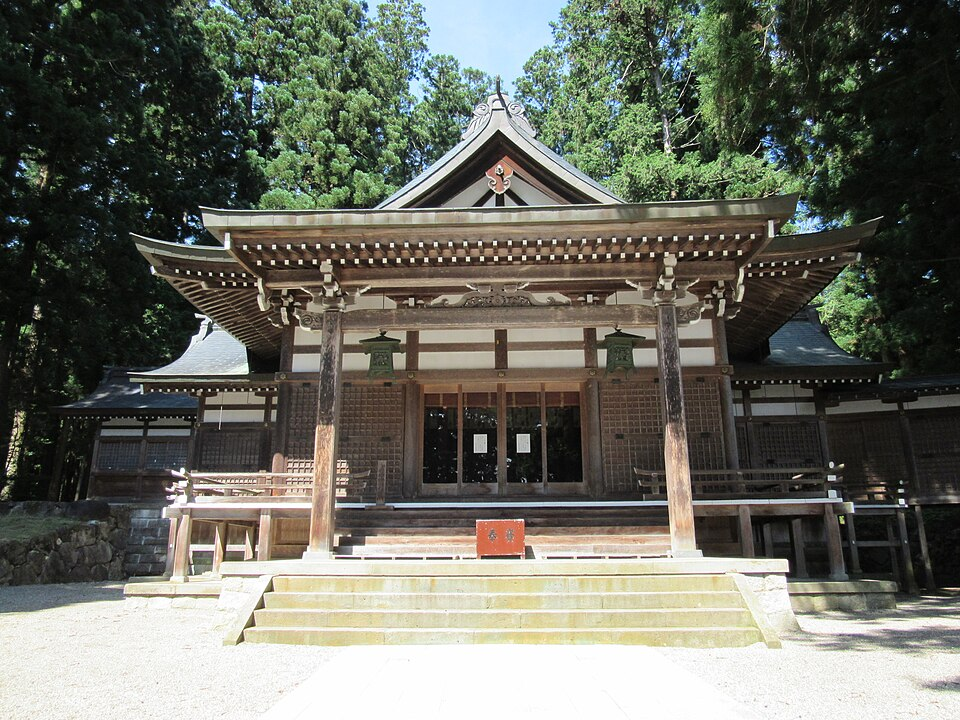
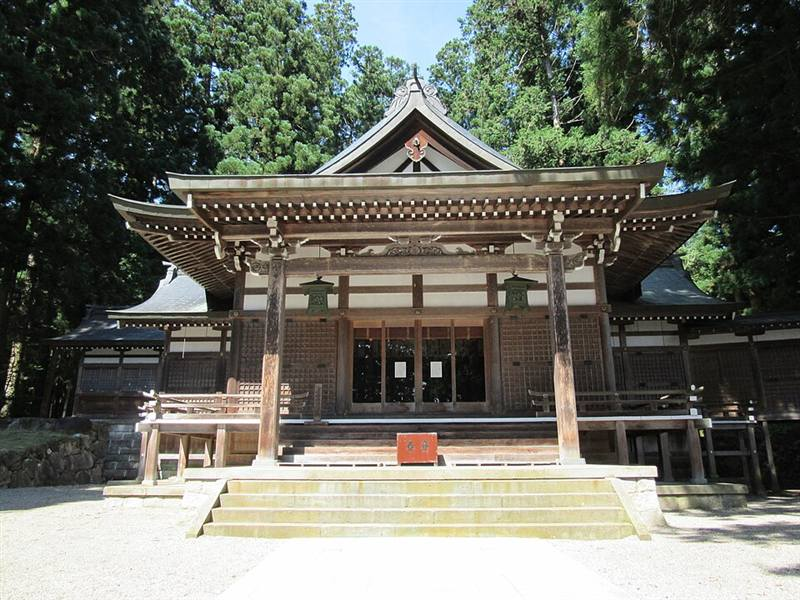
1127 지민: PR 전 코드 리뷰 반영 + 바닷가 소나무 인스턴싱
- 입장 뒤 설정창에서 캐릭터를 바꾸면 다시 잠겨서 출발점으로 돌아가고 창이 닫히던 문제 (한 번 입장하면 다시 잠그지 않음)
- 늦게 온 서버 캐릭터 값이 방금 고른 캐릭터를 덮던 문제, 서버 답이 없거나 모델을 못 받으면 "입장하는 중"에 갇히던 문제
- 서버 깨우기(/health)는 10분 뒤 멈춤
- 레일바이크: 속도 표시 0.25초마다, 다시 그려질 때 속도 0, 지붕 재질 정리
- 실제 성지가 없는 공간 종류엔 팻말 안 세움, 토토로 성지 이름 통일
- 성지 사진 5장 800px로 줄임 (1.43MB → 0.62MB), 출처에 라이선스 링크
- 소나무 20그루를 인스턴싱 메시 3개로 (그리기 호출 약 80 → 3)

diff --git a/frontend/src/game/Map/styles/jm_seaside.jsx b/frontend/src/game/Map/styles/jm_seaside.jsx
@@ -1,8 +1,9 @@
 // 애니 구역 서쪽 바닷가 산책로 소품 — 담당: 지민 (11/27)
 // 애니 ↔ K-pop 사이 빈 땅: 물가 나무 데크(terrain jm_sea_walk) 끝 바다 위 정자, 바닷가 소나무, 물가 바위
 // 다른 jm 스타일과 같은 약속: size [w, h, d] 안에 그림, 앞면 +z, 바닥 y = 0 (JSON elevation으로 띄움)
-import { useMemo } from 'react'
+import { useId, useLayoutEffect, useMemo, useRef, useSyncExternalStore } from 'react'
 import * as THREE from 'three'
+import { createPortal, useThree } from '@react-three/fiber'
 import { hipRoofGeometry } from './geometry.js'
 
 const DECK_WOOD = '#8a6a48' // 산책로 데크(jm_sea_walk color)와 같은 색
@@ -138,8 +139,39 @@ function JmSeaPavilion({ item }) {
 // size [w, h, d]. 잎 덩어리는 id마다 기울기·층이 조금씩 다름
 const PINE_BARK = '#5a4030'
 const PINE_GREENS = ['#2f5634', '#3a6640', '#284b2e']
+// (11/27 최적화) 소나무 20그루를 한 그루씩 그리면 그루마다 메시 약 4개 → 그리기 호출 약 80번이었음.
+//   이제 각 소나무는 자기 위치와 모양만 아래 목록(pineList)에 올리고, 목록의 첫 소나무 하나가
+//   줄기 아래·줄기 위·잎 덩어리를 모든 소나무 몫까지 인스턴싱 메시 3개로 한꺼번에 그림 → 그리기 호출 3번
+//   (jm_perf.jsx 합치기는 인스턴싱 메시를 건드리지 않음. 충돌은 원래대로 JSON collider가 맡음)
+const PINE_LOWER_GEO = new THREE.CylinderGeometry(0.16, 0.24, 1, 7)
+const PINE_UPPER_GEO = new THREE.CylinderGeometry(0.1, 0.16, 1, 6)
+const PINE_PAD_GEO = new THREE.IcosahedronGeometry(1, 1)
+const PINE_BARK_MAT = new THREE.MeshStandardMaterial({ color: PINE_BARK, roughness: 1, flatShading: true })
+const PINE_PAD_MAT = new THREE.MeshStandardMaterial({ color: '#ffffff', roughness: 1, flatShading: true }) // 색은 잎마다(instanceColor)
+const pineList = new Map() // 소나무 키 → { world: 월드 행렬, parts }
+let pineVersion = 0
+const pineListeners = new Set()
+const notifyPines = () => {
+  pineVersion++
+  pineListeners.forEach((f) => f())
+}
+const subscribePines = (f) => {
+  pineListeners.add(f)
+  return () => pineListeners.delete(f)
+}
+const firstPineKey = () => {
+  let first = null
+  for (const k of pineList.keys()) if (first === null || k < first) first = k
+  return first
+}
+const Y_UP = new THREE.Vector3(0, 1, 0)
+
 function JmPine({ item }) {
   const [w, h] = item.size
+  const autoKey = useId()
+  const key = item.id ?? autoKey
+  const anchor = useRef(null)
+  const scene = useThree((st) => st.scene)
   const shape = useMemo(() => {
     const rnd = seeded(item.id ?? 'pine')
     const lean = (rnd() - 0.5) * 0.5 // 줄기 기울기(라디안)
@@ -158,32 +190,80 @@ function JmPine({ item }) {
         c: PINE_GREENS[i % PINE_GREENS.length],
       })
     }
-    return { bend, lowH, pads }
+    // 부품별 이 소나무 안에서의 행렬 (원통은 높이 1짜리를 y로 늘림 — 예전 높이 len 원통과 같은 모양)
+    const upper = new THREE.Vector3(bend[0] * 0.6, h - lowH - 0.6, bend[1] * 0.6)
+    const lower = new THREE.Vector3(bend[0], lowH, bend[1])
+    const trunk = (center, v) =>
+      new THREE.Matrix4().compose(center, new THREE.Quaternion().setFromUnitVectors(Y_UP, v.clone().normalize()), new THREE.Vector3(1, v.length(), 1))
+    return {
+      lower: trunk(new THREE.Vector3(bend[0] / 2, lowH / 2, bend[1] / 2), lower),
+      upper: trunk(new THREE.Vector3(bend[0] + upper.x / 2, lowH + upper.y / 2, bend[1] + upper.z / 2), upper),
+      pads: pads.map((pad) => ({
+        m: new THREE.Matrix4().compose(new THREE.Vector3(...pad.p), new THREE.Quaternion(), new THREE.Vector3(...pad.s)),
+        c: new THREE.Color(pad.c),
+      })),
+    }
   }, [item.id, w, h])
-  const { bend, lowH, pads } = shape
-  const upper = new THREE.Vector3(bend[0] * 0.6, h - lowH - 0.6, bend[1] * 0.6)
-  const upperLen = upper.length()
-  const upperQuat = new THREE.Quaternion().setFromUnitVectors(new THREE.Vector3(0, 1, 0), upper.clone().normalize())
-  const lower = new THREE.Vector3(bend[0], lowH, bend[1])
-  const lowerQuat = new THREE.Quaternion().setFromUnitVectors(new THREE.Vector3(0, 1, 0), lower.clone().normalize())
+
+  useLayoutEffect(() => {
+    const g = anchor.current
+    g.updateWorldMatrix(true, false)
+    pineList.set(key, { world: g.matrixWorld.clone(), parts: shape })
+    notifyPines()
+    return () => {
+      pineList.delete(key)
+      notifyPines()
+    }
+  }, [key, shape])
+
+  const version = useSyncExternalStore(subscribePines, () => pineVersion)
+  const host = firstPineKey() === key
+  // 묶음은 장면 맨 위에 붙임 — 소품은 가까운 칸만 보이게 칸마다 숨기는데(MapLayout DetailCell), 첫 소나무 칸 밑에 두면
+  //   그 칸이 숨을 때 모든 소나무가 같이 사라짐. 3번 그리기라 멀리 있어도 늘 그림
+  return <group ref={anchor}>{host && createPortal(<PineGrove version={version} />, scene)}</group>
+}
+
+// 목록의 모든 소나무를 월드 좌표 그대로 인스턴싱 메시 3개에 담음
+function PineGrove({ version }) {
+  const sets = useMemo(() => {
+    const lower = []
+    const upper = []
+    const pads = []
+    const padColors = []
+    for (const { world, parts } of pineList.values()) {
+      const base = world
+      lower.push(base.clone().multiply(parts.lower))
+      upper.push(base.clone().multiply(parts.upper))
+      for (const pad of parts.pads) {
+        pads.push(base.clone().multiply(pad.m))
+        padColors.push(pad.c)
+      }
+    }
+    return { lower, upper, pads, padColors }
+    // eslint-disable-next-line react-hooks/exhaustive-deps
+  }, [version])
   return (
-    <group>
-      <mesh position={[bend[0] / 2, lowH / 2, bend[1] / 2]} quaternion={lowerQuat} castShadow>
-        <cylinderGeometry args={[0.16, 0.24, lower.length(), 7]} />
-        <meshStandardMaterial color={PINE_BARK} roughness={1} flatShading />
-      </mesh>
-      <mesh position={[bend[0] + upper.x / 2, lowH + upper.y / 2, bend[1] + upper.z / 2]} quaternion={upperQuat} castShadow>
-        <cylinderGeometry args={[0.1, 0.16, upperLen, 6]} />
-        <meshStandardMaterial color={PINE_BARK} roughness={1} flatShading />
-      </mesh>
-      {pads.map((pad, i) => (
-        <mesh key={i} position={pad.p} scale={pad.s} castShadow>
-          <icosahedronGeometry args={[1, 1]} />
-          <meshStandardMaterial color={pad.c} roughness={1} flatShading />
-        </mesh>
-      ))}
-    </group>
+    <>
+      <GroveMesh key={`l${sets.lower.length}`} geometry={PINE_LOWER_GEO} material={PINE_BARK_MAT} matrices={sets.lower} />
+      <GroveMesh key={`u${sets.upper.length}`} geometry={PINE_UPPER_GEO} material={PINE_BARK_MAT} matrices={sets.upper} />
+      <GroveMesh key={`p${sets.pads.length}`} geometry={PINE_PAD_GEO} material={PINE_PAD_MAT} matrices={sets.pads} colors={sets.padColors} />
+    </>
   )
+}
+
+function GroveMesh({ geometry, material, matrices, colors }) {
+  const ref = useRef(null)
+  useLayoutEffect(() => {
+    const mesh = ref.current
+    if (!mesh) return
+    matrices.forEach((m, i) => mesh.setMatrixAt(i, m))
+    colors?.forEach((c, i) => mesh.setColorAt(i, c))
+    mesh.instanceMatrix.needsUpdate = true
+    if (mesh.instanceColor) mesh.instanceColor.needsUpdate = true
+    mesh.computeBoundingSphere()
+  }, [matrices, colors])
+  if (matrices.length === 0) return null
+  return <instancedMesh ref={ref} args={[geometry, material, matrices.length]} castShadow receiveShadow />
 }
 
 // ── 물가 바위 무리 (참고: 데크 옆 갯바위) ─────────────────────

diff --git a/frontend/src/GameRoot.jsx b/frontend/src/GameRoot.jsx
@@ -1,4 +1,4 @@
-import { Suspense, useEffect, useState } from 'react'
+import { Component, Suspense, useEffect, useState } from 'react'
 import { useGLTF } from '@react-three/drei'
 import { USE_SERVER } from './api/session.js'
 import { cachedCharacterIds, getPlayerCharacter } from './api/serverApi.js'
@@ -29,8 +29,11 @@ export default function GameRoot({ locked = false }) {
   const { ready, warm } = useCharacterReady(!locked)
   // 로그인 직후 "입장하는 중…" 카드가 먼저 그려진 다음에 캐릭터를 세움 (같이 하면 무거운 작업에 묶여 카드가 늦게 보임)
   const painted = useAfterTwoFrames(!locked)
-  const hold = locked || !ready || !painted
-  const entered = useEntered(locked, hold)
+  const waiting = locked || !ready || !painted
+  const entered = useEntered(locked, waiting)
+  // 한 번 들어온 뒤에는 다시 잠그지 않음 — 설정창에서 캐릭터를 바꿔도 그 자리에서 모델만 바뀜
+  //   (잠그면 캐릭터가 출발점으로 돌아가고 열린 창이 닫히고 멀티 접속이 끊겼다 다시 붙었음 — 11/27 리뷰)
+  const hold = locked || (!entered && waiting)
   return (
     <div style={{ position: 'relative', width: '100%', height: '100%' }}>
       {warm}
@@ -74,21 +77,28 @@ function useEntered(locked, hold) {
   return entered
 }
 
+const GIVE_UP_MS = 12_000
+
 /** 로그인한 계정의 캐릭터 정보 + 모델(GLB)이 준비됐는지 { ready, warm(모델 미리 받기 — 화면에 붙일 것) }. active가 false면(로그인 전) 기다리지 않음 */
 function useCharacterReady(active) {
   const userId = useUiStore((s) => s.userId)
   const known = useCharacterStore((s) => Boolean(s.byUser[userId] || s.errors[userId]))
   const model = useCharacterStore((s) => (s.byUser[userId] ?? characters[0]).model)
   const [loadedModel, setLoadedModel] = useState(null)
+  const [gaveUp, setGaveUp] = useState(false)
 
   useEffect(() => {
-    if (!active || !userId) return
-    if (USE_SERVER && applyCachedCharacter(userId)) return
+    if (!active || !userId) return undefined
+    if (USE_SERVER && applyCachedCharacter(userId)) return undefined
     useCharacterStore.getState().load(userId)
+    // 서버 답이 끝내 안 오면 "입장하는 중…"에 갇히지 않게: 기다리다 기본 캐릭터로 입장 (답이 늦게 오면 그때 바뀜)
+    setGaveUp(false)
+    const id = setTimeout(() => setGaveUp(true), GIVE_UP_MS)
+    return () => clearTimeout(id)
   }, [active, userId])
 
   if (!active) return { ready: true, warm: null }
-  if (!known) return { ready: false, warm: null }
+  if (!known && !gaveUp) return { ready: false, warm: null }
   if (loadedModel === model) return { ready: true, warm: null }
   return { ready: false, warm: <ModelWarm key={model} model={model} onReady={setLoadedModel} /> }
 }
@@ -104,7 +114,8 @@ function applyCachedCharacter(userId) {
   put(cached)
   getPlayerCharacter({ userId })
     .then(({ character }) => {
-      if (character && store.getState().byUser[userId]?.id !== character.id) put(character)
+      // 그사이 설정창에서 새로 골랐으면(byUser가 바뀜) 늦게 온 서버 값으로 덮지 않음
+      if (character && store.getState().byUser[userId] === cached && cached.id !== character.id) put(character)
     })
     .catch(() => {}) // 확인 실패 → 저장된 값 그대로
   return true
@@ -129,10 +140,27 @@ function ModelWarm({ model, onReady }) {
   }, [model])
   if (!started) return null
   return (
-    <Suspense fallback={null}>
-      <Warmed model={model} onReady={onReady} />
-    </Suspense>
+    <WarmErrorBoundary onError={() => onReady(model)}>
+      <Suspense fallback={null}>
+        <Warmed model={model} onReady={onReady} />
+      </Suspense>
+    </WarmErrorBoundary>
   )
+}
+// 모델 파일을 못 받아도(404·네트워크) 게임 전체가 하얗게 꺼지지 않게: 미리 받기만 포기하고 입장
+//   (실제 캐릭터는 CharacterModel.jsx의 자체 오류 처리로 대체 모양이 나옴)
+class WarmErrorBoundary extends Component {
+  state = { failed: false }
+  static getDerivedStateFromError() {
+    return { failed: true }
+  }
+  componentDidCatch(error) {
+    console.error('[GameRoot] 캐릭터 모델 미리 받기 실패', error)
+    this.props.onError()
+  }
+  render() {
+    return this.state.failed ? null : this.props.children
+  }
 }
 function Warmed({ model, onReady }) {
   useGLTF(import.meta.env.BASE_URL + model)

diff --git a/frontend/src/game/Map/styles/jm_railbike.jsx b/frontend/src/game/Map/styles/jm_railbike.jsx
@@ -157,6 +157,7 @@ function BikeMesh({ variant = 0, number = 7, wheelRef }) {
   const roof = ROOF_COLORS[variant % ROOF_COLORS.length]
   const body = BODY_COLORS[variant % BODY_COLORS.length]
   const roofMat = useMemo(() => new THREE.MeshStandardMaterial({ color: roof, transparent: true, opacity: 0.82, roughness: 0.4, side: THREE.DoubleSide }), [roof])
+  useEffect(() => () => roofMat.dispose(), [roofMat]) // 다른 사람 바이크가 나타났다 사라질 때마다 재질이 남지 않게
   return (
     <group>
       <Box p={[0, 0.36, 0]} s={[1.5, 0.1, 2.2]} m={BIKE_FRAME} />
@@ -376,6 +377,7 @@ function JmRailBike({ item }) {
   useEffect(
     () => () => {
       restoreModel()
+      state.v = 0 // 자리는 기억하되 속도는 0 (안 그러면 다시 그려질 때 바퀴가 계속 돎)
       const rail = useJmActivity.getState().rail
       if (rail.active === item.id) {
         useJmActivity.getState().setRail({ active: null, near: null })
@@ -432,7 +434,12 @@ function JmRailBike({ item }) {
         state.lapAt = time
       }
       if (rail.lap && time - state.lapAt > 4) store.setRail({ lap: false })
-      if (Math.abs(rail.speed - state.v) > 0.25) store.setRail({ speed: state.v })
+      // 속도 표시는 0.25초에 한 번만 (가속 중 매번 바꾸면 초당 12번 화면 UI를 다시 그렸음 — 11/27 리뷰). 멈추면 바로 0
+      const stopped = state.v === 0 && rail.speed !== 0
+      if (stopped || (Math.abs(rail.speed - state.v) > 0.25 && time - (state.hudAt ?? 0) > 0.25)) {
+        state.hudAt = time
+        store.setRail({ speed: state.v })
+      }
     }
     place()
     // 바퀴 굴리기 (그림만)

diff --git a/frontend/src/game/Map/styles/jm_portal.jsx b/frontend/src/game/Map/styles/jm_portal.jsx
@@ -261,9 +261,12 @@ export function JmSceneRoom({ item }) {
       {room.kind === 'crossing' && <SakuraCrossing w={w} d={d} />}
       {room.kind === 'onsen' && <OnsenMotif w={w} d={d} bridge={room.bridge} />}
       {/* 입구 쪽 장면 안내판 — (11/27) 누르면(또는 가까이서 버튼·E) 실제 성지 정보 창 (jm_realSpots.jsx) */}
-      <group position={[-3.2, 0, d / 2 - (room.kind === 'totoro' ? 7 : 4.5)]} rotation={[0, 0.35, 0]}>
-        <RealSpotSign signId={item.id} spot={SPOT_OF_ROOM[room.kind]} title={room.title} sub={room.sub} />
-      </group>
+      {/*   실제 성지가 연결 안 된 공간 종류(stairs·rock·crossing)는 팻말을 안 세움 — 눌러도 창이 열렸다 바로 닫혔음 (11/27 리뷰) */}
+      {SPOT_OF_ROOM[room.kind] && (
+        <group position={[-3.2, 0, d / 2 - (room.kind === 'totoro' ? 7 : 4.5)]} rotation={[0, 0.35, 0]}>
+          <RealSpotSign signId={item.id} spot={SPOT_OF_ROOM[room.kind]} title={room.title} sub={room.sub} />
+        </group>
+      )}
     </group>
   )
 }

diff --git a/frontend/src/game/Map/styles/jm_zoneMap.jsx b/frontend/src/game/Map/styles/jm_zoneMap.jsx
@@ -36,7 +36,7 @@ const w2 = ([x, z]) => [x, z + ORIGIN_Z]
 // ⚠ 작품 공식 콜라보 가게는 하나도 없음 (팬·관광 매체가 꼽는 모델지 기준). 기간 한정 팝업은 넣지 않음
 export const JM_REAL_PLACES = {
   // 명장면
-  spot_jm_crossing: { kind: 'spot', name: '가미야스마쓰 지조손 (사이타마 도코로자와)', query: '上安松地蔵尊' },
+  spot_jm_crossing: { kind: 'spot', name: '토토로의 숲 1호지 (사이타마 도코로자와)', query: 'トトロの森1号地' }, // jm_realSpotData.js crossing과 같게 (11/27 리뷰)
   spot_jm_stairs: { kind: 'spot', name: '케타와카미야 신사 (기후 히다후루카와)', query: '気多若宮神社' },
   spot_jm_shrine: { kind: 'spot', name: '호만구 가마도 신사 (후쿠오카 다자이후)', query: '宝満宮竈門神社' },
   spot_jm_sakura_river: { kind: 'spot', name: '시라타니운스이쿄 이끼 숲 (가고시마 야쿠시마)', query: '白谷雲水峡 苔むす森' },

diff --git a/frontend/src/components/auth/jm_preload.js b/frontend/src/components/auth/jm_preload.js
@@ -12,6 +12,7 @@ export const loadGame = () => import('../../GameRoot.jsx')
 
 const HEALTH_TIMEOUT_MS = 70_000
 const SLOW_AFTER_MS = 90_000 // 이만큼 지나도 안 깨어나면 "늦어요" 안내 (계속 시도는 함)
+const GIVE_UP_MS = 10 * 60_000
 
 /**
  * server: 'waking'(깨우는 중) | 'ready'(준비됨) | 'slow'(오래 걸림 — 계속 시도 중) | 'off'(mock 모드)
@@ -39,6 +40,8 @@ async function wakeUntilReady() {
       // 잠에서 깨는 중(연결 끊김·시간 초과) → 잠깐 쉬고 다시
     }
     if (Date.now() - begin > SLOW_AFTER_MS) usePreload.setState({ server: 'slow' })
+    // 10분이 지나도 안 깨어나면(서버 장애) 그만 — 탭을 열어 둔 채 계속 두드리지 않게. 로그인 버튼은 그대로 쓸 수 있음
+    if (Date.now() - begin > GIVE_UP_MS) return
     await new Promise((r) => setTimeout(r, 3000))
   }
 }

diff --git a/frontend/public/jm-real/CREDITS.md b/frontend/public/jm-real/CREDITS.md
@@ -1,11 +1,11 @@
-# 애니 구역 실제 성지 사진 출처 (위키미디어 공용, 960px 축소본 그대로 — 고치지 않음)
+# 애니 구역 실제 성지 사진 출처 (위키미디어 공용 원본을 가로 800px·JPEG 품질 72로 줄임 — 크기만 바꾸고 내용은 고치지 않음, 11/27)
 
 화면(jm_realSpots.jsx)의 사진 아래에 작가·라이선스·원본 링크를 함께 표시해요. 사진을 바꾸면 여기와 jm_realSpotData.js를 같이 고치기.
 
 | 파일 | 원본 | 작가 | 라이선스 |
 |---|---|---|---|
-| totoro-forest.jpg | https://commons.wikimedia.org/wiki/File:Totoro_Forest_1st_area_(2)_2026-05-05.jpg | Asanagi | CC0 |
-| keta-wakamiya.jpg | https://commons.wikimedia.org/wiki/File:Keta_wakamiya.jpg | Opqr | CC BY-SA 4.0 |
-| kamado-shrine.jpg | https://commons.wikimedia.org/wiki/File:Haiden_of_Kamado_Shrine_3.jpg | そらみみ | CC BY-SA 4.0 |
-| shiratani.jpg | https://commons.wikimedia.org/wiki/File:Yaku-Island_Shiratani-Unsui-Gorge.jpg | MaedaAkihiko | CC0 |
-| kodakarayu.jpg | https://commons.wikimedia.org/wiki/File:Kodakara-Yu_Entrance.jpg | TANAKA Juuyoh (田中十洋) | CC BY 2.0 |
+| totoro-forest.jpg | https://commons.wikimedia.org/wiki/File:Totoro_Forest_1st_area_(2)_2026-05-05.jpg | Asanagi | [CC0](https://creativecommons.org/publicdomain/zero/1.0/) |
+| keta-wakamiya.jpg | https://commons.wikimedia.org/wiki/File:Keta_wakamiya.jpg | Opqr | [CC BY-SA 4.0](https://creativecommons.org/licenses/by-sa/4.0/) |
+| kamado-shrine.jpg | https://commons.wikimedia.org/wiki/File:Haiden_of_Kamado_Shrine_3.jpg | そらみみ | [CC BY-SA 4.0](https://creativecommons.org/licenses/by-sa/4.0/) |
+| shiratani.jpg | https://commons.wikimedia.org/wiki/File:Yaku-Island_Shiratani-Unsui-Gorge.jpg | MaedaAkihiko | [CC0](https://creativecommons.org/publicdomain/zero/1.0/) |
+| kodakarayu.jpg | https://commons.wikimedia.org/wiki/File:Kodakara-Yu_Entrance.jpg | TANAKA Juuyoh (田中十洋) | [CC BY 2.0](https://creativecommons.org/licenses/by/2.0/) |
